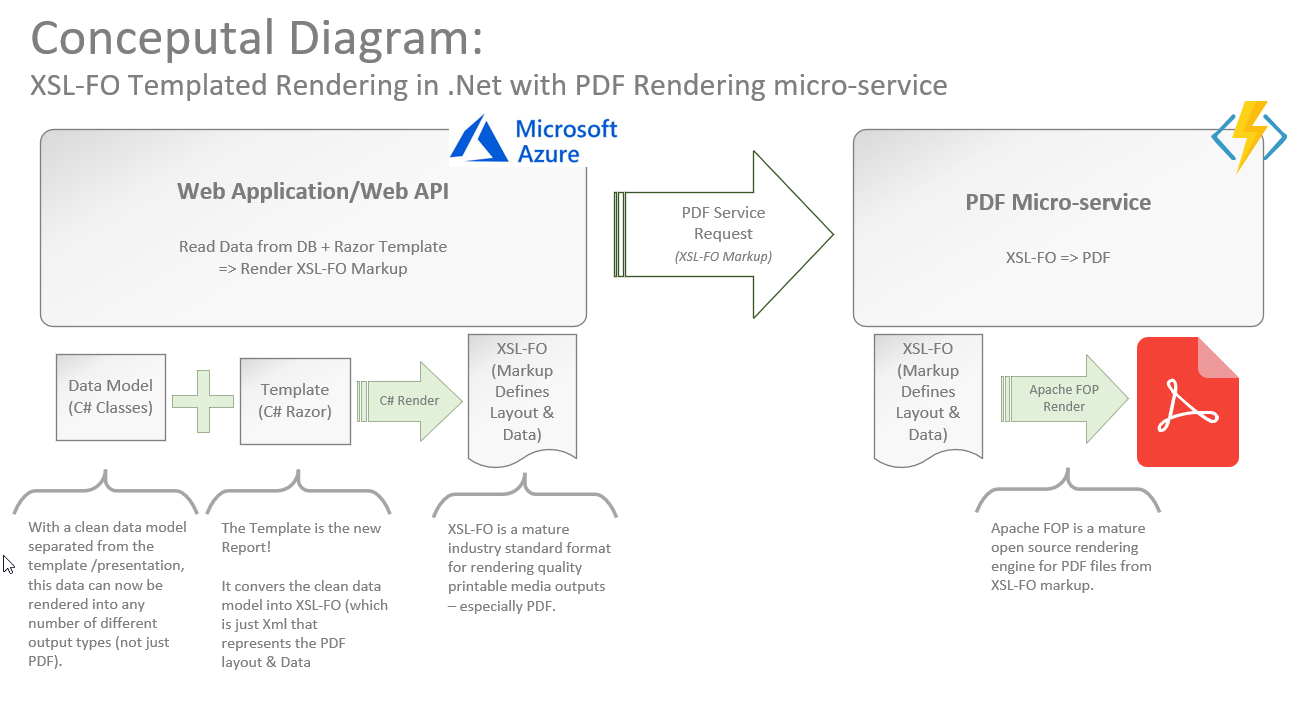
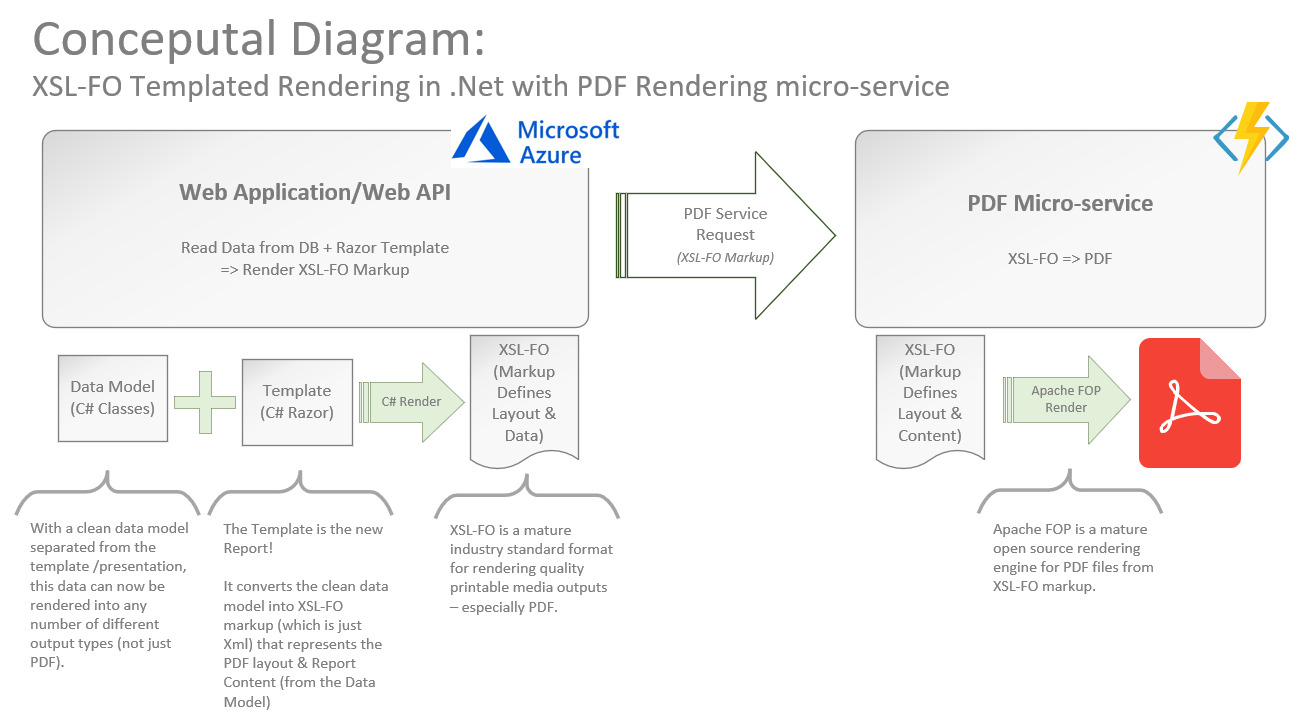
Edits and image updates for spelling errors/edits.

diff --git a/_posts/2021-08-22-pdf-reporting-with-a-serverless-architecture.md b/_posts/2021-08-22-pdf-reporting-with-a-serverless-architecture.md
@@ -50,7 +50,7 @@ for various technology languages including: .Net, Java, NodeJS, etc.!
 
 So now on my newest projects I've been leveraging mini-services (dare I say micro-services) and serverless architectures, whereby PDF Reporting has, and will continue to be, a very critical requirement/capability. 
 Now I've finally had the time to flush out the details of how to elegantly integrate the latest-and-greatest versions of ApacheFOP with .NET.... **the result of which I've shared in an open source project 
-named [ApacheFOP.Serverless](https://github.com/cajuncoding/ApacheFOP.Serverless)!**
+named [*ApacheFOP.Serverless*](https://github.com/cajuncoding/ApacheFOP.Serverless)!**
 
 ### The Architecture
 
@@ -68,11 +68,11 @@ Here's the Conceptual diagram to help clarify any questions:
 There are many reasons why servless architectures are great, and there are some cons too... but that's a whole other topic that I won't get into now.  But as a project structure, Azure Functions are very flexible
 and can be deployed directly to Azure cloud in many different ways.  With the latest version of Azure Functions, not only can you deploy directly to an Azure Function Serverless app, but you can also
 deploy the project as a containerized artifact, etc. So you have alot of control over the deployment style & infrastructure.  So, effectively Microsoft has empowered you to choose your own approach 
-which lets you take advantage of or mitigate whatever pros/cons you wish.
+which lets you take advantage of, or mitigate, whatever pros/cons you wish.
 
 ##### Running Locally with Full Debugging capability
-In addition, none of this precludes us from running the service locally.  It's really awesome to spin up ApacheFOP.Serverless locally and PostMan/Insomnia, or your live Web App also locally hit the service,
-with live breakpoints inside ApacheFOP.Serverless!
+In addition, none of this precludes us from running the service locally.  It's really awesome to spin up *ApacheFOP.Serverless* locally and PostMan/Insomnia, or your live Web App also locally hit the service,
+with live breakpoints inside *ApacheFOP.Serverless*!
 
 #### The Result:
 And Voila . . . we have a service that can be called to consistently render PDF Binary outputs, but is also highly scalable leveragin the Serverless architecture of Azure Functions.
